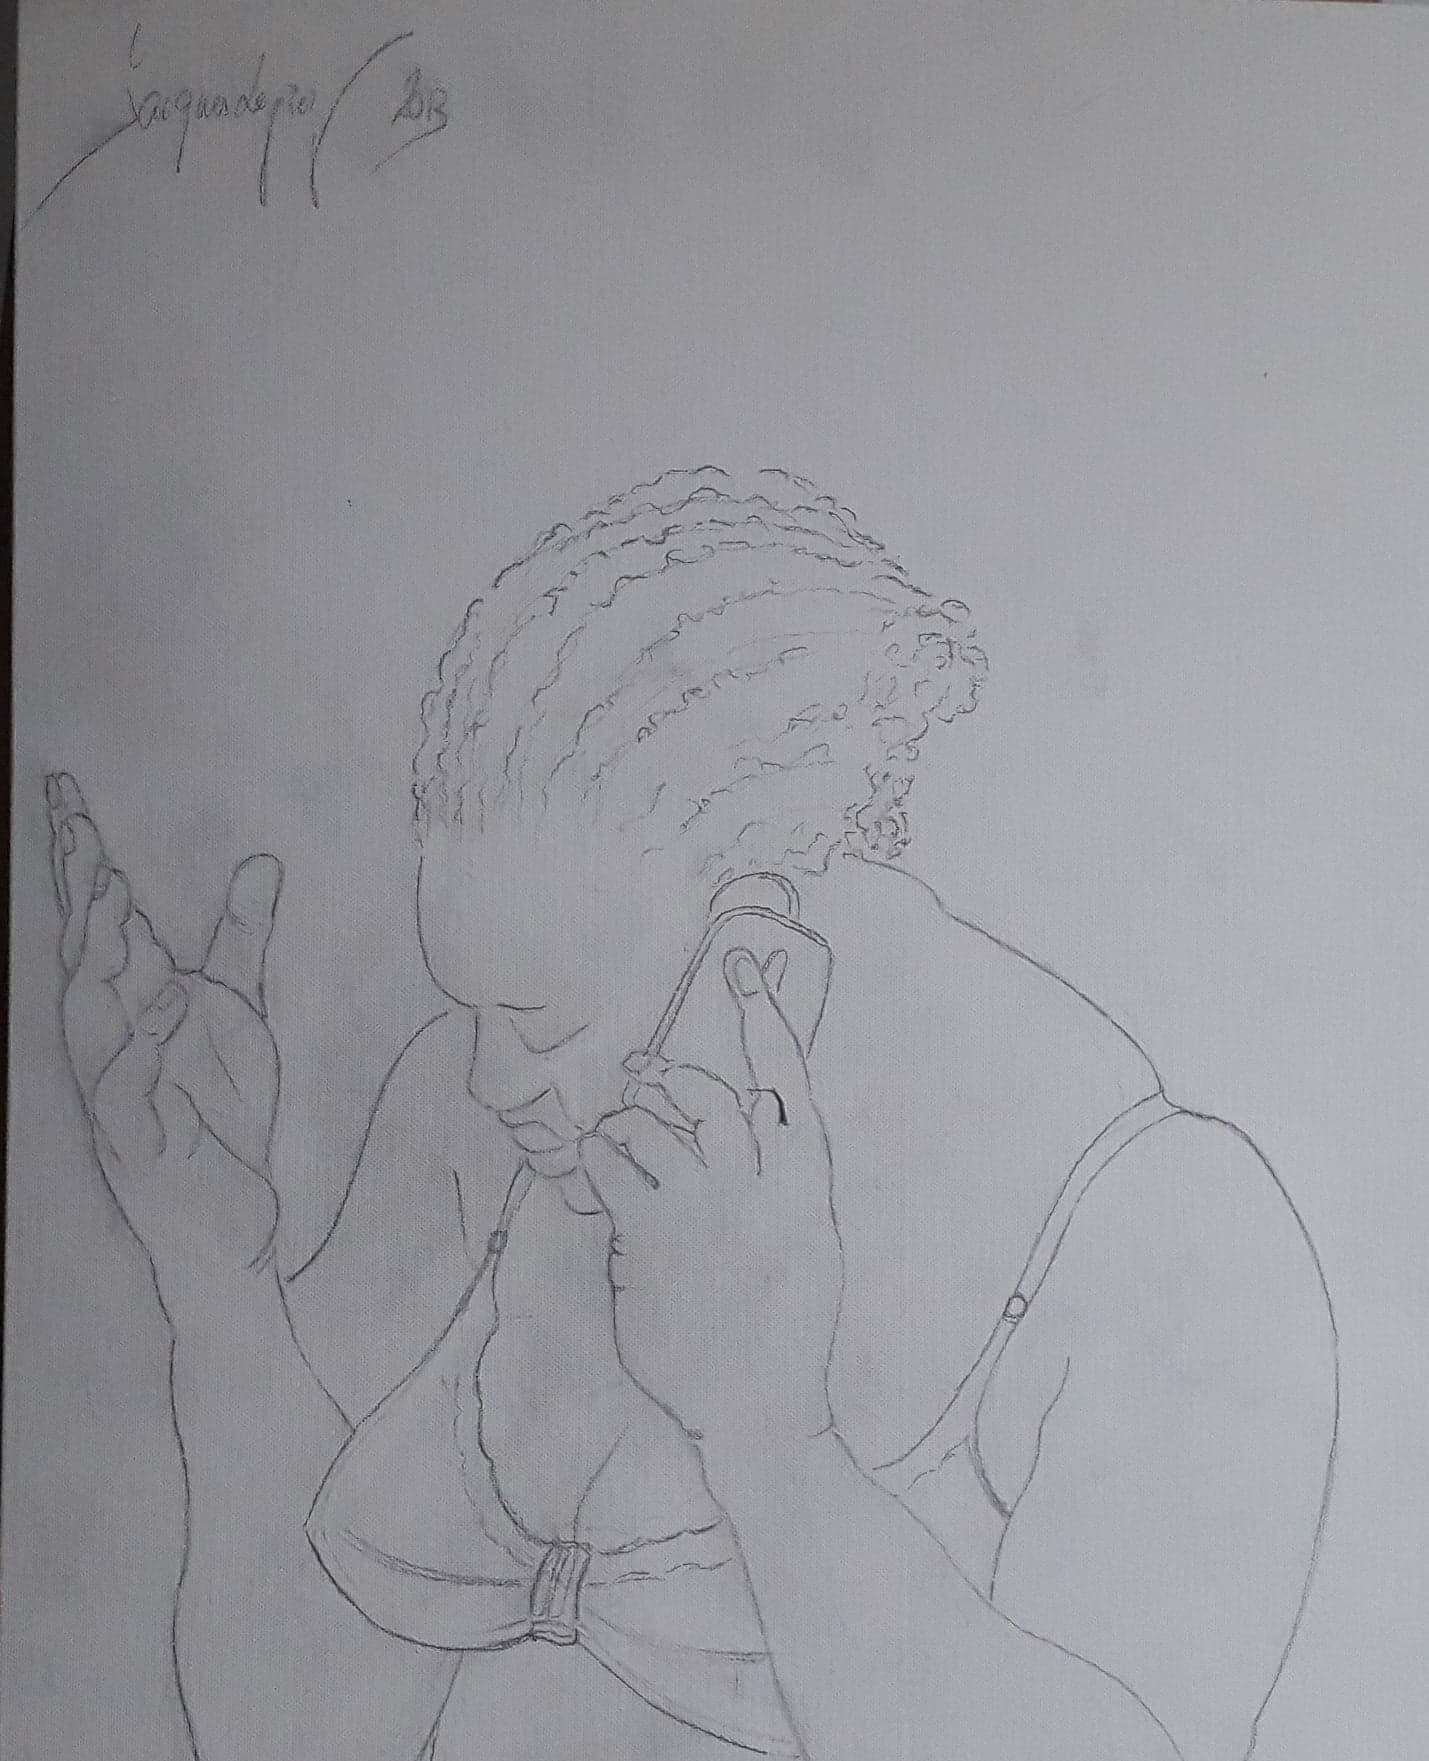
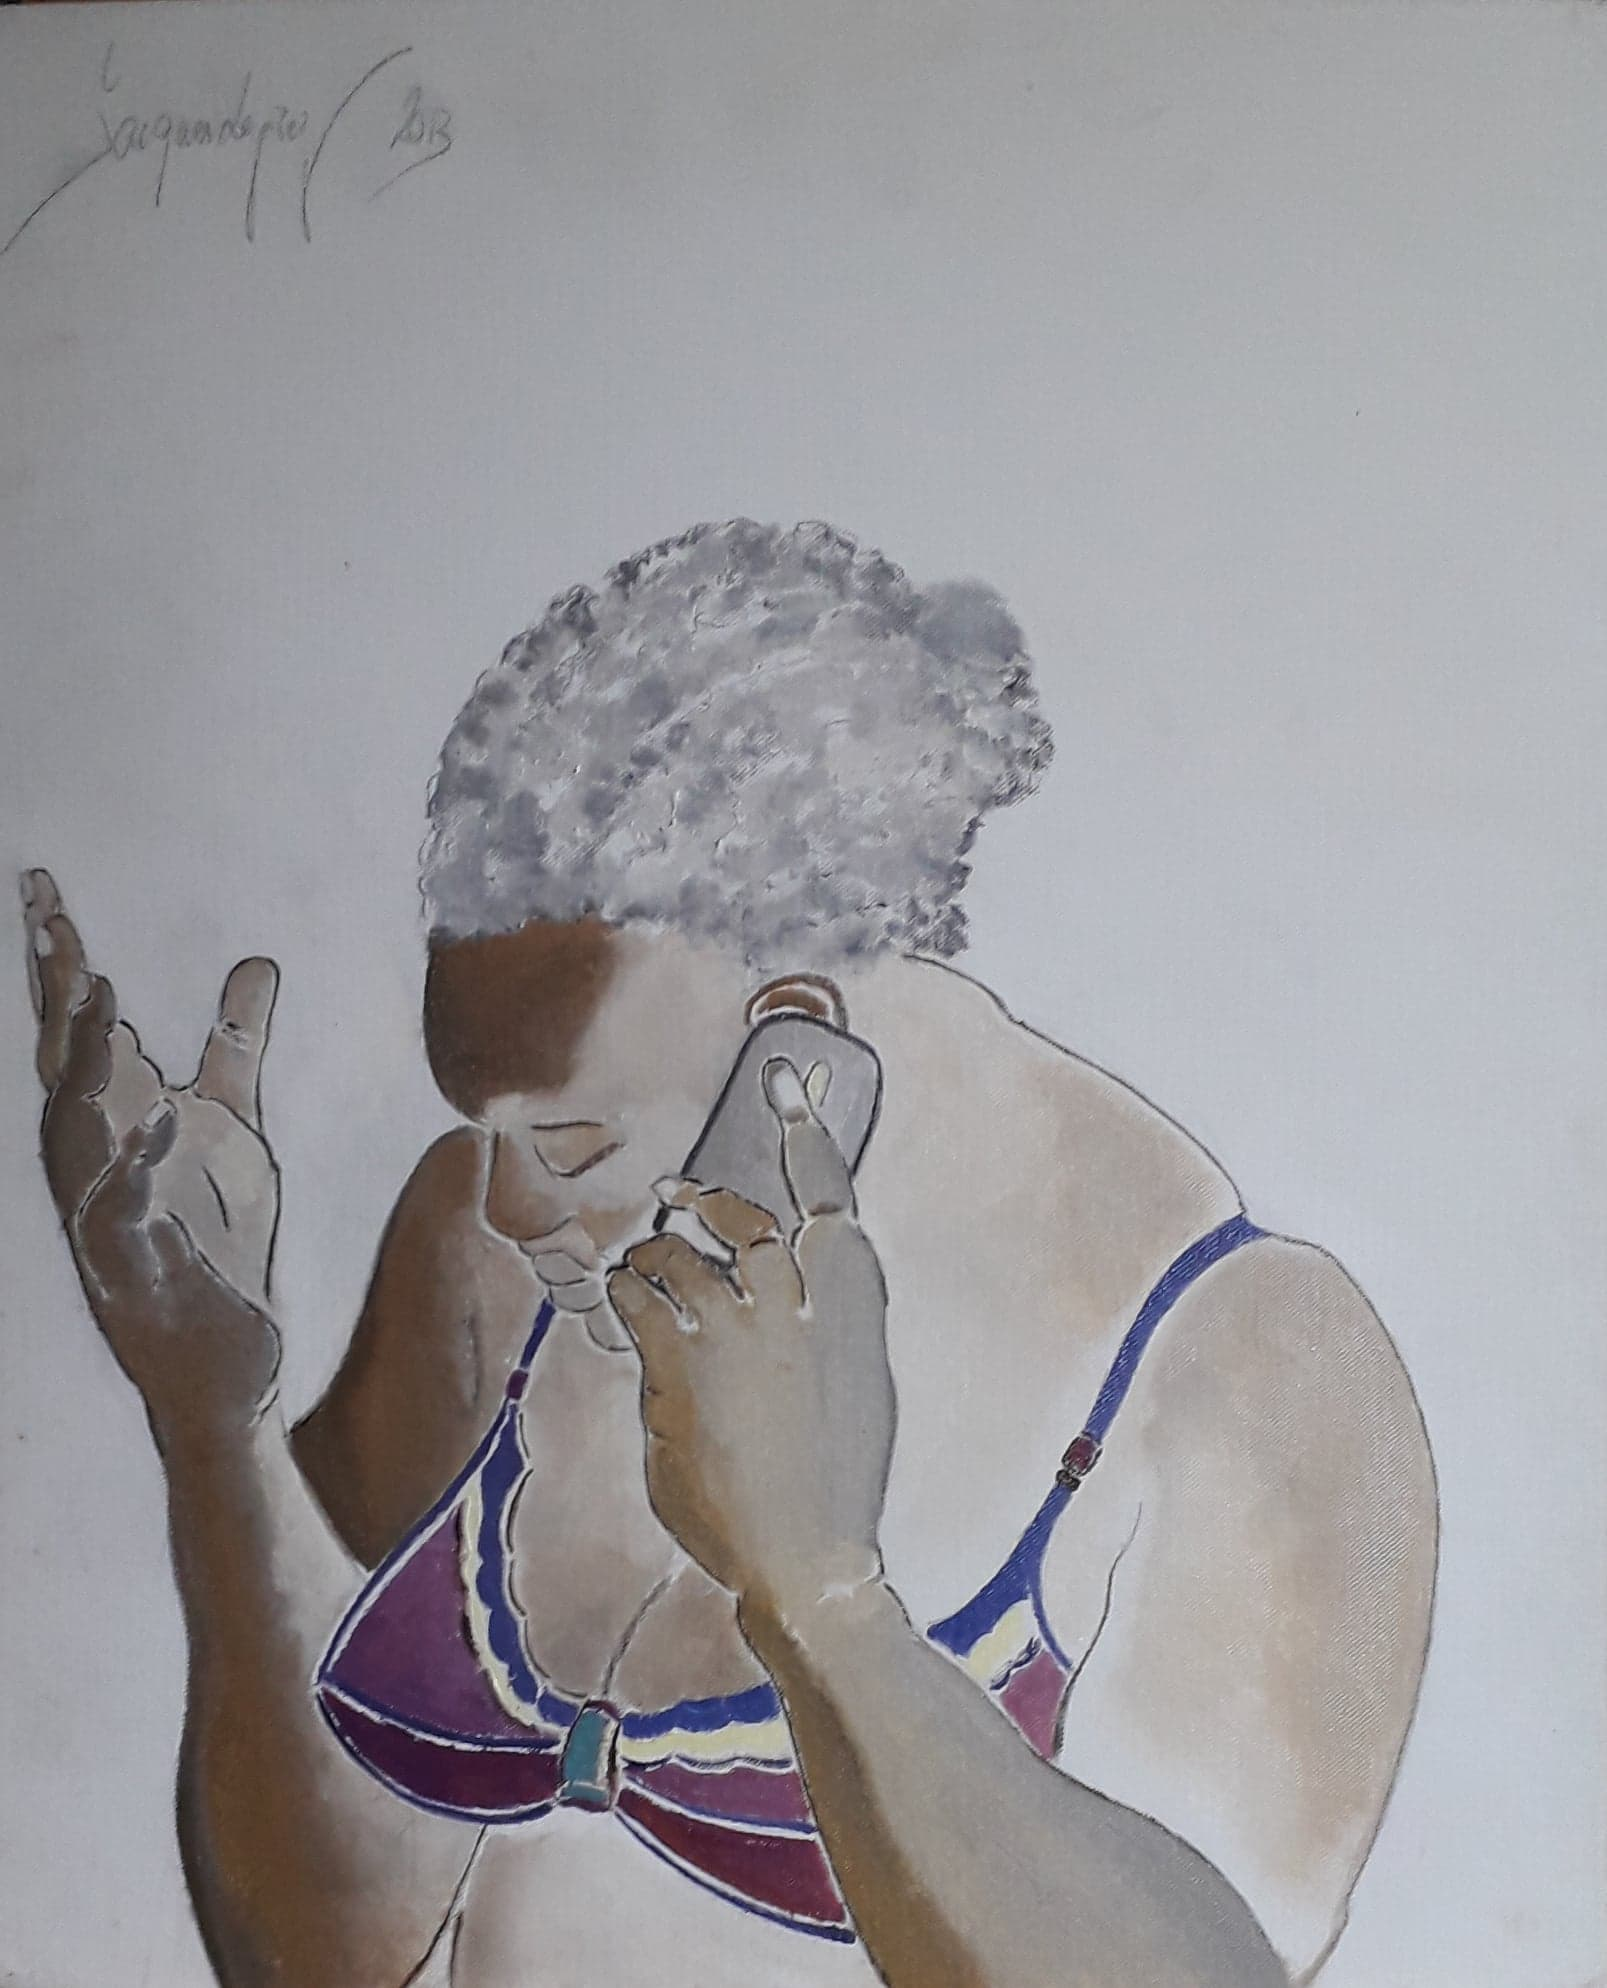
tableaux modifications

diff --git a/app/controllers/oeuvres_controller.rb b/app/controllers/oeuvres_controller.rb
@@ -326,11 +326,11 @@ class OeuvresController < ApplicationController
             size: '81cm x 65cm'
           }, {
             img: '../assets/Marine_1m90mx80cm.jpg',
-            title: 'Marine 1',
+            title: 'Punta Cana',
             size: '1m90 x 80cm'
           }, {
             img: '../assets/Marine_2mx80cm.jpg',
-            title: 'Marine 2',
+            title: 'Vendée Globe',
             size:'2m x 80cm'
           }, {
             img: '../assets/St_Jean_Cap_Ferrat_81cmx65cm.jpg',
@@ -435,7 +435,7 @@ class OeuvresController < ApplicationController
             title: 'Jacques Attali',
             size: '61cm x 46cm'
           }, {
-            img: '../assets/portrait_13_46cmx38cm.jpg',
+            img: '../assets/portrait_13v2_46cmx38cm.jpg',
             title: 'Portrait 13',
             size: '46cm x 38cm'
           }, {
